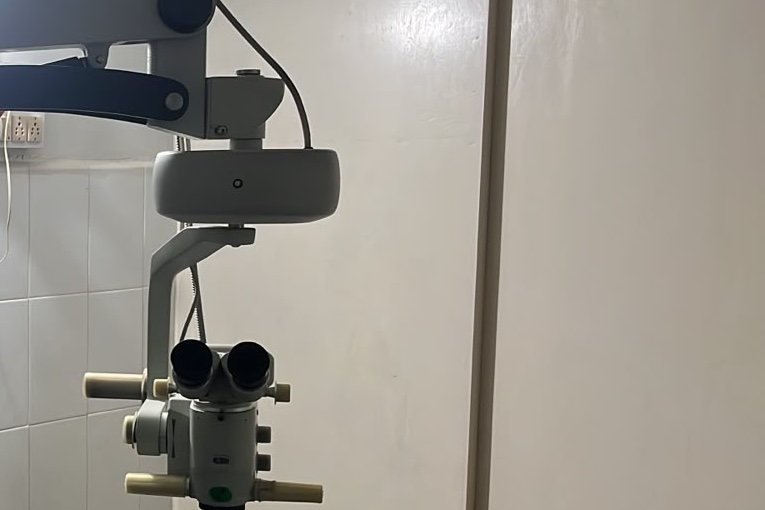
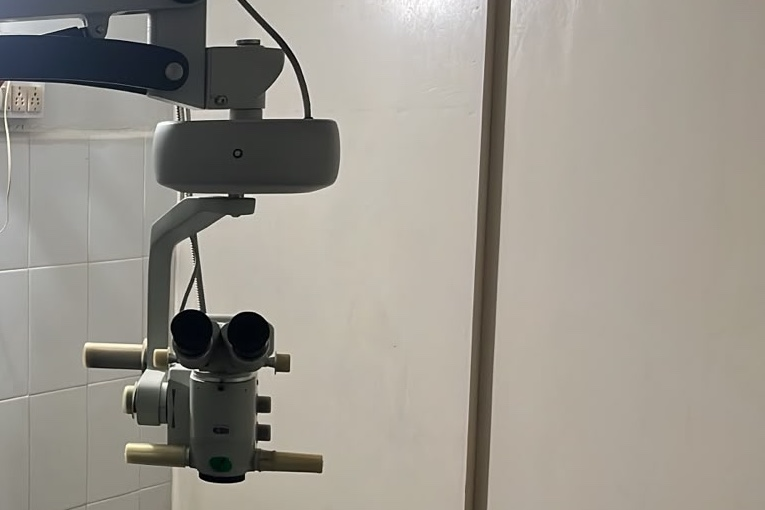
Design review round 2: OT crop keeps the whole microscope head; diabetic page shows no photo (the text is about the fundus camera and OCT, not the machines pictured); his page's Treatments heading line back to the general one (eye tests aren't operations)

diff --git a/src/content/ui.ts b/src/content/ui.ts
@@ -104,7 +104,6 @@ export const UI = t(
     docPageDesc: "ડૉ. રાજીવ શાહ, MBBS, DOMS: ૩૦ વર્ષથી વધુ સમયથી જામનગરમાં આંખના સર્જન. સુભમ્ આઈ ક્લિનિકમાં મોતિયો, ઝામર, ટેરીજીયમ અને આંખની ઇજાનાં ઓપરેશન. ફોન 0288 256 3274.",
     memK: "સભ્યપદ",
     memV: "APACRS (Asia‑Pacific Association of Cataract and Refractive Surgeons)",
-    opsNote: "બધાં ઓપરેશન ક્લિનિકના પોતાના ઓપરેશન થિયેટરમાં થાય છે.",
     docMore: "ડૉ. શાહ વિશે વધુ",
   },
   {
@@ -205,7 +204,6 @@ export const UI = t(
     docPageDesc: "Dr. Rajeev Shah, MBBS, DOMS: eye surgeon in Jamnagar for over 30 years. Cataract, glaucoma, pterygium and eye-injury surgery at Subham Eye Clinic. Call 0288 256 3274.",
     memK: "Membership",
     memV: "APACRS (Asia‑Pacific Association of Cataract and Refractive Surgeons)",
-    opsNote: "All operations are done in the clinic’s own operation theatre.",
     docMore: "More about Dr. Shah",
   },
 );

diff --git a/src/content/treatments.ts b/src/content/treatments.ts
@@ -219,7 +219,6 @@ export const TREATMENTS: Treatment[] = [
     sections: [
       {
         h: { gu: "ક્લિનિકમાં તપાસ", en: "The check-up at the clinic" },
-        photo: "tests",
         p: {
           gu: "ડૉ. શાહ રેટિનાની તપાસ કરે છે અને જરૂર પડે તો ફંડસ કેમેરાથી પડદાના ફોટા તથા OCT સ્કેન કરે છે, જેમાં રેટિનાનાં પડ વિગતે દેખાય છે.",
           en: "Dr. Shah examines the retina and, where needed, takes retina photographs with the fundus camera and an OCT scan, which shows the layers of the retina in detail.",

diff --git a/src/pages/Doctor.tsx b/src/pages/Doctor.tsx
@@ -41,7 +41,7 @@ export function Doctor({ lang }: { lang: Lang }) {
 
       {portrait && <dl className="card glance">{facts.map(([k, v]) => <div key={k}><dt className="label">{k}</dt><dd>{v}</dd></div>)}</dl>}
 
-      <Section id="tx" title={L.txTitle} sub={L.opsNote}>
+      <Section id="tx" title={L.txTitle} sub={L.txSub}>
         <div className="g3 txg">
           {TREATMENTS.map((t) => (
             <a key={t.slug} className="card tcard" href={href(treatmentPath(lang, t))}>
